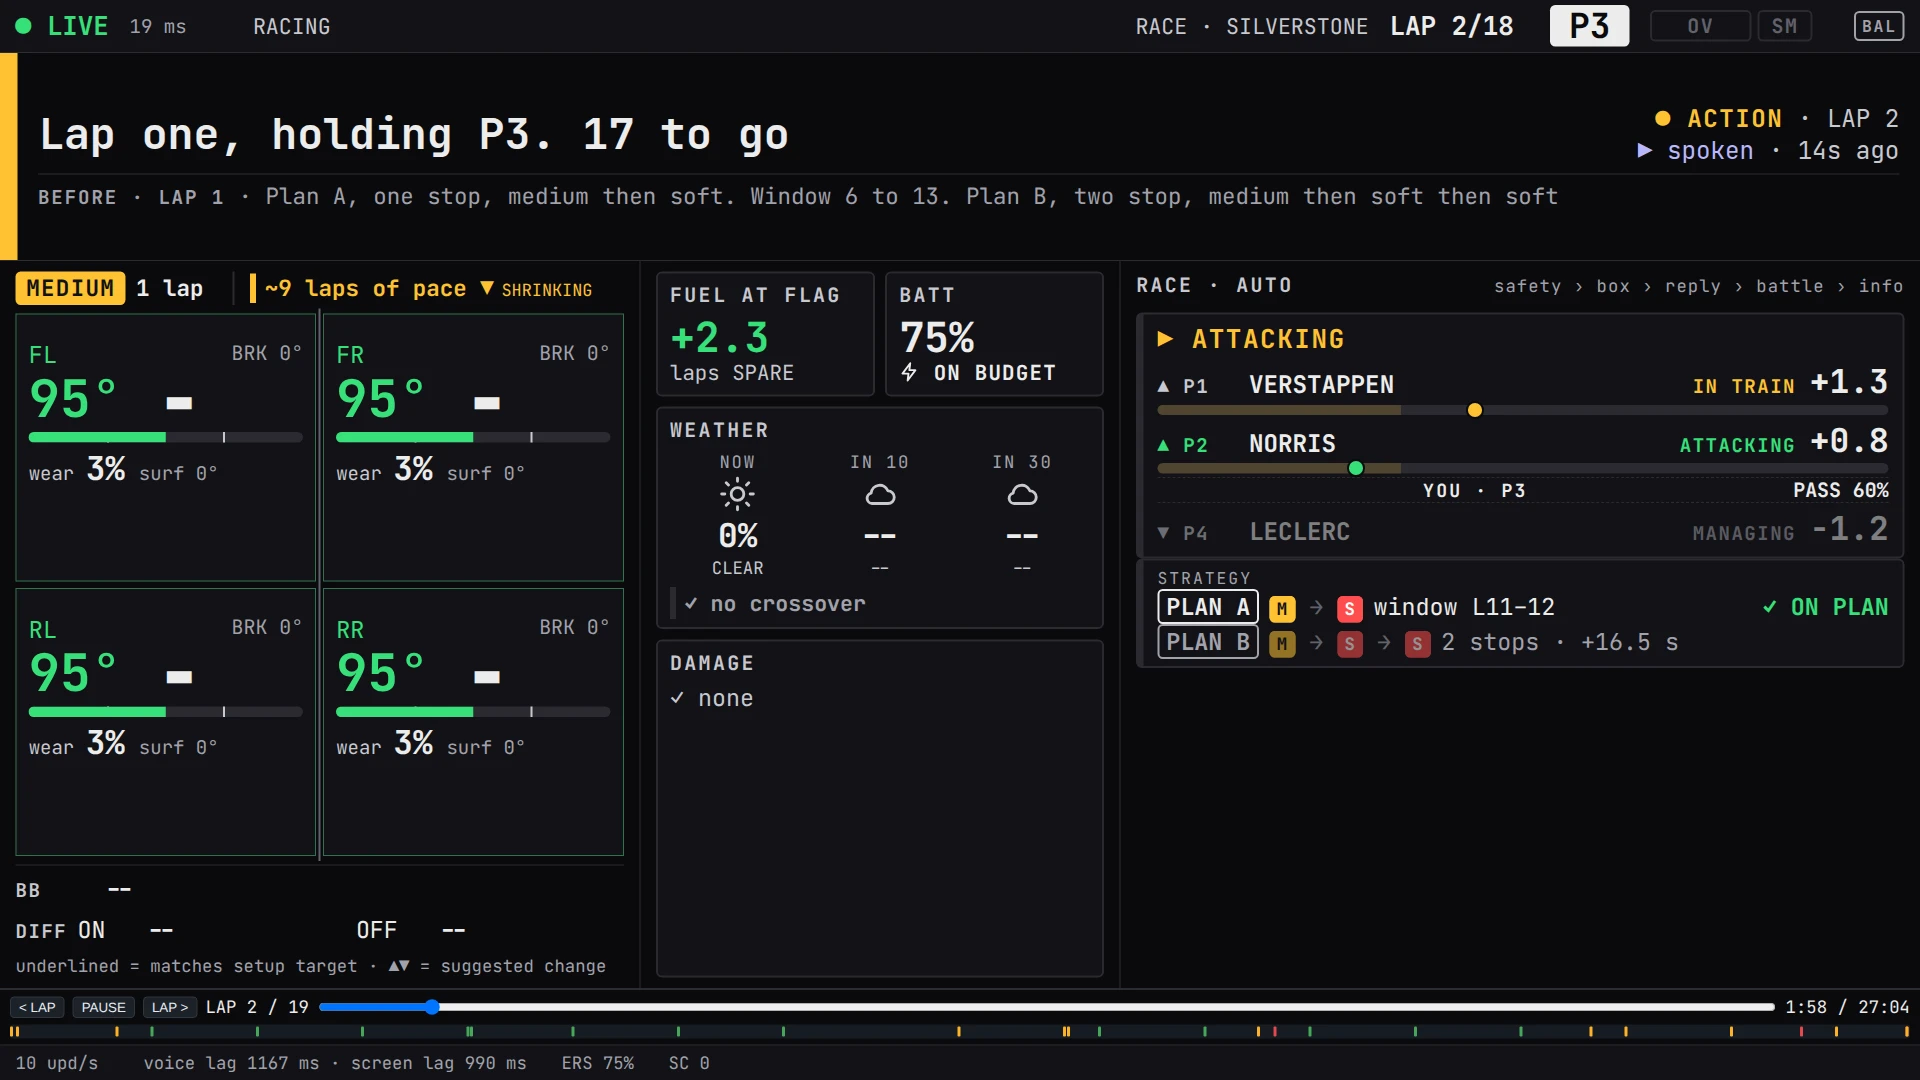
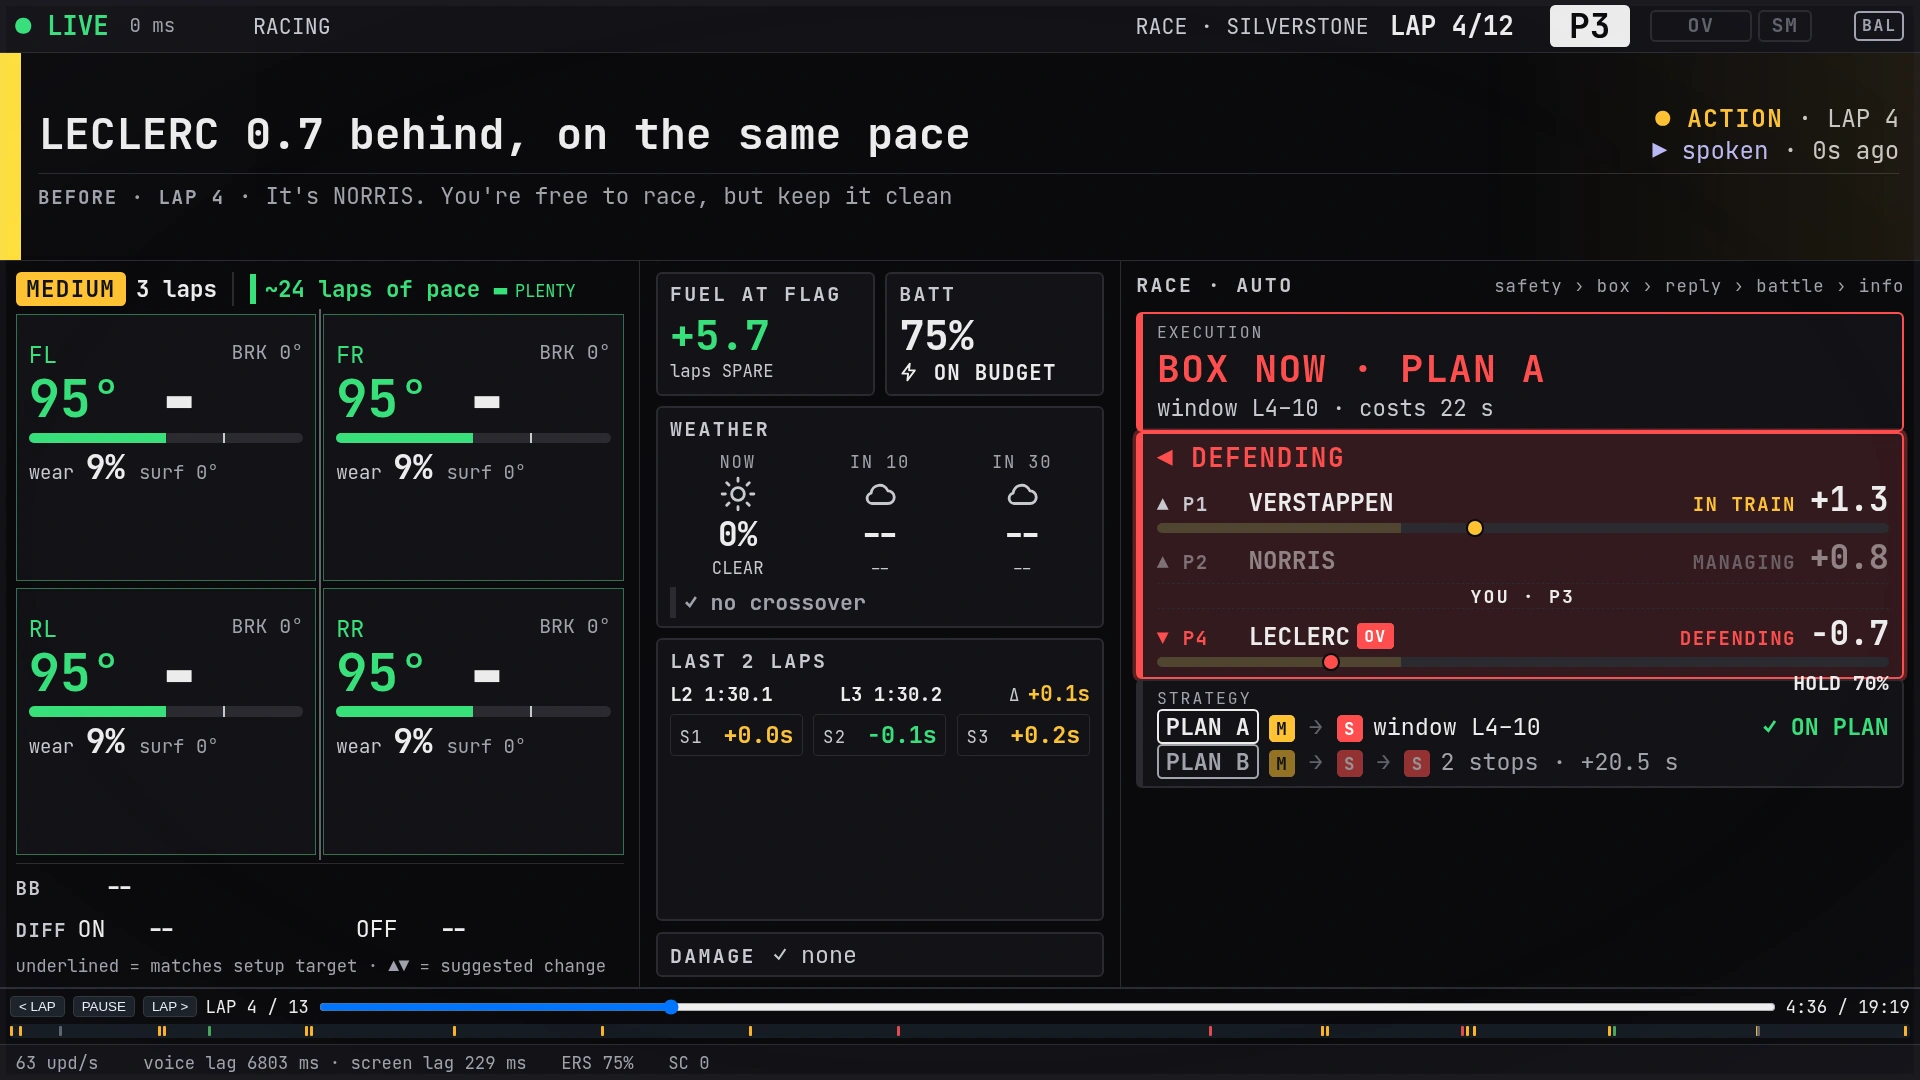
docs: refresh dashboard screens for last two laps tile

diff --git a/docs/index.html b/docs/index.html
@@ -296,8 +296,8 @@ function overview() {
     ]],
     ["Race", [
       ["race-duel", "Battle", "The battle card lists the cars ahead and behind, each with its state, gap and gap rail."],
-      ["race-box-call", "Box call", "An urgent call turns the banner red. The right zone puts the box call and pit window first."],
-      ["race-final-lap", "Final lap", "The last-lap call names the car ahead and the gap."]
+      ["race-box-call", "Box call", "The safety car is active. The right zone shows the box call and pit window."],
+      ["race-final-lap", "Final lap", "The final-lap call names the car behind and the gap."]
     ]],
     ["On the phone", [
       ["phone-race", "Phone race page", "The race page on a phone shows the call, tyres, fuel and strategy, plus the button that arms phone radio."],

diff --git a/tests/race_synth.py b/tests/race_synth.py
@@ -73,6 +73,7 @@ class RaceSpec:
     rival_overtake_cars: tuple[int, ...] = ()
     gap_ahead_from_lap: tuple[int, float] | None = None  # (lap, new gap ahead in s)
     ers_store_j: float = 3_000_000.0
+    player_history: bool = False
 
 
 def _rival_lap_distance(spec: RaceSpec, d: float, offset_s: float) -> float:
@@ -217,6 +218,33 @@ def _history(i: int, laps: list[int]) -> dict[str, object]:
     }
 
 
+def _player_history(lap_times: list[int]) -> dict[str, object]:
+    variations = ((120, -30, -90), (-50, 100, -50), (-70, -70, 140))
+    laps: dict[int, dict[str, int]] = {}
+    for index, lap_time_ms in enumerate(lap_times):
+        third_ms = lap_time_ms // 3
+        s1_offset, s2_offset, _ = variations[index % len(variations)]
+        s1_ms = third_ms + s1_offset
+        s2_ms = third_ms + s2_offset
+        laps[index] = {
+            "lap_time_ms": lap_time_ms,
+            "sector1_ms_part": s1_ms,
+            "sector2_ms_part": s2_ms,
+            "sector3_ms_part": lap_time_ms - s1_ms - s2_ms,
+            "lap_valid_bit_flags": 0x0F,
+        }
+    laps[len(lap_times)] = {"lap_time_ms": 0, "lap_valid_bit_flags": 0}
+    return {
+        "car_idx": 0,
+        "num_laps": len(lap_times) + 1,
+        "num_tyre_stints": 1,
+        "laps": laps,
+        "tyre_stints": {
+            0: {"end_lap": 255, "tyre_actual_compound": 17, "tyre_visual_compound": 17}
+        },
+    }
+
+
 def race_stream(spec: RaceSpec) -> list[tuple[float, bytes]]:
     pkts: list[tuple[float, bytes]] = []
     t = 0.0
@@ -260,6 +288,7 @@ def race_stream(spec: RaceSpec) -> list[tuple[float, bytes]]:
     )
     event(b"LGOT")
     history: dict[int, list[int]] = {1: [], 2: [], 3: []}
+    player_lap_times: list[int] = []
     stint_start = 1
     player_wear0 = 0.0
     player_last_ms = 0
@@ -448,6 +477,8 @@ def race_stream(spec: RaceSpec) -> list[tuple[float, bytes]]:
                 telemetry_car["tyres_surface_temperature"] = (int(surface),) * 4
             emit(PacketId.CAR_TELEMETRY, {"cars": {0: telemetry_car}})
             if f % int(2 / spec.dt) == 0:
+                if spec.player_history:
+                    emit(PacketId.SESSION_HISTORY, _player_history(player_lap_times[-100:]))
                 for i in (1, 2, 3):
                     if history[i]:
                         emit(PacketId.SESSION_HISTORY, _history(i, history[i][-100:]))
@@ -457,6 +488,7 @@ def race_stream(spec: RaceSpec) -> list[tuple[float, bytes]]:
                 event(b"PENA", struct.pack("<BBBBBBB", 4, 7, 0, 255, 5, lap, 0))  # time penalty
             t += spec.dt
         player_last_ms = lap_ms
+        player_lap_times.append(lap_ms)
         for i in (1, 2, 3):
             pit = spec.rival_pit_lap if i == 1 else None
             rival_age = lap - (pit + 1) if pit is not None and lap > pit else lap - 1

diff --git a/tests/test_state.py b/tests/test_state.py
@@ -17,6 +17,7 @@ from pitwall.state.session import (
     thermal_window,
 )
 
+from .race_synth import RaceSpec, race_stream
 from .synth import make_event_packet, pack_packet
 
 
@@ -543,6 +544,18 @@ def test_session_history_recent_player_laps() -> None:
         0.0,
     )
     assert state.snapshot(0.0).player_recent_laps == ()
+
+
+def test_race_stream_player_history_has_valid_sectors() -> None:
+    ingest, state = _state()
+    for session_time, packet in race_stream(RaceSpec(laps=3, dt=1.0, player_history=True)):
+        _send(ingest, packet, session_time)
+
+    recent_laps = state.snapshot(0.0).player_recent_laps
+    assert len(recent_laps) == 2
+    assert all(
+        s1_ms + s2_ms + s3_ms == lap_time_ms for _, lap_time_ms, s1_ms, s2_ms, s3_ms in recent_laps
+    )
 
 
 def test_tyre_sets_snapshot() -> None:
